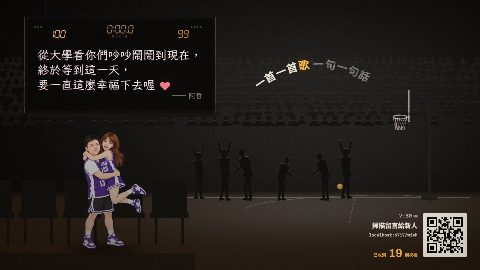
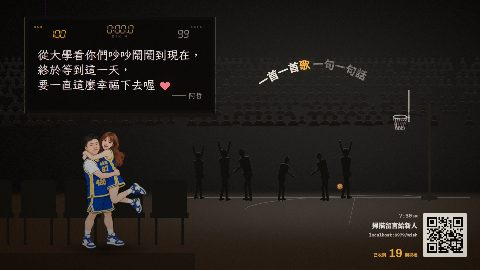
大螢幕：籃球衣改成勇士隊配色（寶藍＋金黃），背號宣文 420、孟庭 87；場館 LED、比分、彩帶跟著改隊色

diff --git a/frontend/src/wall/scenes/halftime.ts b/frontend/src/wall/scenes/halftime.ts
@@ -1,8 +1,8 @@
 // 中場投籃挑戰（暗、hoops）：中場休息，場館的燈打在罰球線上——宣文穿著 A&O 球衣上場挑戰「一拍投一球」，
-// 孟庭在場邊揮著兩支充氣加油棒。角色是 Codex 畫的紙偶（xw_hoops_shoot_1／2、mt_hoops_wave_1／2…，_puppet.ts、素材組 hoops）。
+// 孟庭在場邊揮著兩支充氣加油棒（隊色：一支寶藍、一支金黃；球衣寶藍配金黃，背號宣文 420、孟庭 87）。角色是 Codex 畫的紙偶（xw_hoops_shoot_1／2、mt_hoops_wave_1／2…，_puppet.ts、素材組 hoops）。
 //  - 投籃一定落在拍點：拍點前半拍拿球往下沉（shoot_1，身體往後帶）→ 拍點上出手（shoot_2，往前送）→ 球沿著拋物線飛、下一拍左右到籃框。
 //    大部分空心進（網子往下甩），每三球有一球打到籃框彈出去；窗格最後一個小節線是最後一球：一定空心進，
-//    宣文轉過來握拳大叫（cheer）、孟庭跳起來、觀眾剪影站起來、彩帶飄下來，支票上「碰」一聲蓋上「PAID ♥」的章。
+//    宣文轉過來握拳大叫（cheer）、孟庭跳起來、觀眾剪影站起來、隊色（寶藍、金黃、白）的彩帶飄下來，支票上「碰」一聲蓋上「PAID ♥」的章。
 //  - 旁邊的球架：一開始放滿，投一球少一顆。
 //  - **焦點是主打留言**：寫在左上方架子上那張大支票（獎品看板，紙的顏色、細框、「PAY TO THE ORDER OF 宣文 & 孟庭」）的附言欄，
 //    署名簽在右下的簽名線上；照「留言尺寸與版面比例標準 v2」：字 40～60、支票最大 800 × 370，寬高跟著留言。沒有留言時寫邀請。
@@ -19,7 +19,7 @@ import { lyricAt, beatAfter, msgChars, DATE_DOTS } from './_motifs';
 import { lyricOnPath, drawNote, arcAt, type Note } from './_couple';
 import { loadPuppets, drawPick, drawCycle, puppetPoint, puppetShadow, puppetIn, puppetLight, jumpArc, breathe, beatKick, hop, noteV2, tightenNote, type PuppetOpts } from './_puppet';
 import { lyricV2 } from './_v2';
-import { makeCrowd, CrowdLayer, crowdShade, lyricRows, basketball, drawHoop, streamers, ledBand, type Hoop, type Pt } from './_c8';
+import { makeCrowd, CrowdLayer, crowdShade, lyricRows, teamRgba, TEAM_TAG, basketball, drawHoop, streamers, ledBand, type Hoop, type Pt } from './_c8';
 
 export const spec: PlateSpecDecl = { group: 'couple', family: 'hoops', paper: false, energy: [0.45, 1], bars: [4, 8] };
 
@@ -90,7 +90,7 @@ export default class Halftime extends Scene {
   override async init() {
     const { audio: au } = this.ctx;
     const s = this.ctx.start, e = this.ctx.end;
-    await loadText('一位賓客新人留言PAY TO THE ORDER OF宣文 & 孟庭HALFTIME CHALLENGE中場投籃挑戰附言PAID ♥∞ 13 · 03' + INVITE + DATE_DOTS);
+    await loadText('一位賓客新人留言PAY TO THE ORDER OF宣文 & 孟庭HALFTIME CHALLENGE中場投籃挑戰附言PAID ♥∞ ' + `${TEAM_TAG.xw} · ${TEAM_TAG.mt}` + INVITE + DATE_DOTS);
     this.track(await loadPuppets(POSES));
     // 投籃表：第一拍起一拍一球（快歌兩拍一球）；最後一球放在窗格最後一個小節線（離結尾至少 1.3 秒）
     const step = au.beatPeriod(s) < 0.38 ? 2 : 1;
@@ -258,7 +258,7 @@ export default class Halftime extends Scene {
     this.drawLyric(c, t);
     this.drawBalls(c, t);
 
-    if (fin && t >= fin.arrive) streamers(c, fin.arrive + 0.05, t, { n: 50, x0: 500, x1: 1880, colors: [rgba('signal', 0.9), rgba('bone', 0.8), rgba('ember', 0.8)], floor: FLOOR + 30 });
+    if (fin && t >= fin.arrive) streamers(c, fin.arrive + 0.05, t, { n: 50, x0: 500, x1: 1880, colors: [teamRgba('blue', 0.95), teamRgba('gold', 0.85), teamRgba('white', 0.8)], floor: FLOOR + 30 });
 
     // ---- 看台的觀眾：畫在這一層所有東西後面（destination-over）；進球小小歡呼、最後一球整片站起來
     let cheer = 0;
@@ -398,15 +398,15 @@ export default class Halftime extends Scene {
   private drawLyric(c: CanvasRenderingContext2D, t: number) {
     const ly = lyricAt(this.ctx.lyrics, t);
     const rv = prog(t, this.ctx.start + 0.1, this.ctx.start + 0.6, ease.inOutCubic);
-    // 沒有歌詞（間奏、純音樂）：LED 板慢慢捲一排很淡的中場秀字樣，板子不會黑著
+    // 沒有歌詞（間奏、純音樂）：LED 板慢慢捲一排很淡的中場秀字樣與背號（隊色金黃），板子不會黑著
     const idle = 1 - (ly ? ly.k : 0);
     if (idle > 0.02) {
       c.save();
       c.beginPath(); c.rect(TABLE.x, TABLE.y, TABLE.w, TABLE.h); c.clip();
       c.font = font(F.mono(600), 26);
       c.letterSpacing = '10px';
-      c.fillStyle = rgba('signal', 0.28 * idle * rv);
-      const unit = 'HALFTIME · A&O ♥ 13 · 03   ';
+      c.fillStyle = teamRgba('gold', 0.3 * idle * rv);
+      const unit = `HALFTIME · ${TEAM_TAG.name} ♥ ${TEAM_TAG.xw} · ${TEAM_TAG.mt}   `;
       const uw = c.measureText(unit).width;
       for (let x = TABLE.x - ((t * 70) % uw); x < TABLE.x + TABLE.w; x += uw) c.fillText(unit, x, TABLE.base - 8);
       c.letterSpacing = '0px';

diff --git a/frontend/src/wall/scenes/courtside.ts b/frontend/src/wall/scenes/courtside.ts
@@ -1,4 +1,4 @@
-// 場邊看球（暗、hoops）：夜裡的室內球場，宣文和孟庭穿著自己設計的 A&O 情侶球衣（紫白、背號 13／03）坐在場邊第一排，
+// 場邊看球（暗、hoops）：夜裡的室內球場，宣文和孟庭穿著自己設計的 A&O 情侶球衣（寶藍配金黃、背號宣文 420／孟庭 87）坐在場邊第一排，
 // 孟庭抱著一桶爆米花。角色是 Codex 畫的紙偶（_puppet.ts、素材組 hoops）；球員、觀眾是程式畫的剪影（_c8.ts，不畫真實球隊與聯盟）。
 //  - 球場在右邊：六個剪影球員照拍子跑位（一拍兩步），持球的那個一拍運一下球（球在拍點落地）。
 //    每兩小節一次快攻：小節線上灌籃（跳到最高點剛好把球塞進籃框），網子往下甩；場館大螢幕上的比分 +2。
@@ -20,7 +20,7 @@ import { lyricAt, barAfter, beatAfter, msgChars } from './_motifs';
 import { lyricOnPath, drawNote, type Note } from './_couple';
 import { loadPuppets, drawPick, pick, puppetPoint, puppetShadow, puppetIn, puppetLight, jumpArc, breathe, beatKick, noteV2, tightenNote, type PuppetOpts } from './_puppet';
 import { lyricV2 } from './_v2';
-import { drawPlayer, playerPose, makeCrowd, CrowdLayer, basketball, drawHoop, popcorn, seats, sine01, crowdShade, lyricRows, jumbotronShell, ledBand, scanPattern, type Hoop, type Pt, type PlayerPose } from './_c8';
+import { drawPlayer, playerPose, makeCrowd, CrowdLayer, basketball, drawHoop, popcorn, seats, sine01, crowdShade, lyricRows, teamRgba, TEAM_TAG, jumbotronShell, ledBand, scanPattern, type Hoop, type Pt, type PlayerPose } from './_c8';
 
 export const spec: PlateSpecDecl = { group: 'couple', family: 'hoops', paper: false, energy: [0.45, 1], bars: [4, 8] };
 
@@ -352,9 +352,11 @@ export default class Courtside extends Scene {
     for (const S of this.scores) if (t >= S) pts += 2;
     c.font = font(F.mono(500), 20);
     c.letterSpacing = '3px';
-    c.fillStyle = rgba('ash', 0.7);
+    // 主隊（我們這隊）用隊色的金黃，客隊灰
+    c.fillStyle = teamRgba('gold', 0.8);
     c.textAlign = 'left';
-    c.fillText(`A&O ${pts}`, J.x + PAD.x, J.y + 31);
+    c.fillText(`${TEAM_TAG.name} ${pts}`, J.x + PAD.x, J.y + 31);
+    c.fillStyle = rgba('ash', 0.7);
     c.textAlign = 'right';
     c.fillText('97 GUEST', J.x + J.w - PAD.x, J.y + 31);
     c.textAlign = 'center';
@@ -376,18 +378,18 @@ export default class Courtside extends Scene {
     // 亮起來的那條掃描光
     if (on < 1) { c.fillStyle = rgba('bone', 0.5 * (1 - on)); c.fillRect(J.x, J.y + J.h * on - 2, J.w, 3); }
     c.restore();
-    // 螢幕底面的一圈 LED：平常一格一格跟著八分音符走；進球時整圈亮
+    // 螢幕底面的一圈 LED（隊色）：平常是暗暗的寶藍，一格金黃跟著八分音符走；我們進球時整圈亮成金黃
     const au = this.ctx.audio;
     const step = Math.floor(au.beatAt(t) * 2);
     const y = J.y + J.h + 20, n2 = Math.floor((J.w - 20) / 14);
     for (let k = 0; k < n2; k++) {
-      const lit = hit > 0.05 ? 0.4 + 0.5 * hit : (k + step) % 8 === 0 ? 0.55 : 0.08;
-      c.fillStyle = rgba('signal', lit);
+      const runner = (k + step) % 8 === 0;
+      c.fillStyle = hit > 0.05 ? teamRgba('gold', 0.4 + 0.45 * hit) : runner ? teamRgba('gold', 0.6) : teamRgba('blue', 0.55);
       c.fillRect(J.x + 10 + k * 14, y, 7, 3);
     }
   }
 
-  /** 環場 LED 帶上的歌詞（逐字跟唱）；沒有歌詞時慢慢捲一排很淡的 A&O ♥。 */
+  /** 環場 LED 帶上的歌詞（逐字跟唱）；沒有歌詞時慢慢捲一排很淡的隊名與背號（隊色金黃）。 */
   private drawRibbon(c: CanvasRenderingContext2D, t: number) {
     const R = RIBBON, s = this.ctx.start;
     const ly = lyricAt(this.ctx.lyrics, t);
@@ -405,8 +407,8 @@ export default class Courtside extends Scene {
       c.beginPath(); c.rect(R.x0, R.y0, R.x1 - R.x0, R.y1 - R.y0); c.clip();
       c.font = font(F.mono(600), 24);
       c.letterSpacing = '10px';
-      c.fillStyle = rgba('signal', 0.2 * idle * rv);
-      const unit = 'A&O ♥ 13 · 03   ';
+      c.fillStyle = teamRgba('gold', 0.24 * idle * rv);
+      const unit = `${TEAM_TAG.name} ♥ ${TEAM_TAG.xw} · ${TEAM_TAG.mt}   `;
       const uw = c.measureText(unit).width;
       const off = -((t * 60) % uw);
       for (let x = R.x0 + off; x < R.x1; x += uw) c.fillText(unit, x, R.base - 6);

diff --git a/frontend/src/wall/scenes/buzzer.ts b/frontend/src/wall/scenes/buzzer.ts
@@ -3,7 +3,7 @@
 //    計時器從 3.0 慢慢倒數，球員剪影在空中慢慢往下飄。每一拍像心跳一樣「咚」一下（鏡頭輕推、兩個人緊張地縮一下）。
 //  - 兩個人在左下角場邊站著（tense）：手十指緊扣、孟庭摀著嘴（兩眼睜大）、一起抬頭看球。
 //  - **小節線上球進**（計時器剛好歸零）：籃板的燈亮起來、記分板 A&O +3 反超，畫面閃一下、震一下；兩個人跳起來擁抱（hug），
-//    落地後在拍點上一跳一跳；看台的觀眾剪影站起來，彩帶從上面飄下來。
+//    落地後在拍點上一跳一跳；看台的觀眾剪影站起來，隊色（寶藍、金黃、白）的彩帶從上面飄下來。
 //  - **焦點是主打留言**：寫在左上角吊著的記分板上（七段顯示器的比分與計時器在上面一排，留言在下面的面板）；
 //    照「留言尺寸與版面比例標準 v2」：字 40～60、板子最大 740 × 360（右邊留給球飛的路），寬高跟著留言。沒有留言時寫邀請。
 //  - 歌詞沿著球飛的那道拋物線排（lyricOnPath，逐字跟唱），比留言小一級；球從字的下面飛過去。
@@ -18,7 +18,7 @@ import { lyricAt, barAfter, beatAfter, msgChars } from './_motifs';
 import { lyricOnPath, drawNote, arcAt, type Note } from './_couple';
 import { loadPuppets, drawPick, puppetShadow, puppetIn, puppetLight, jumpArc, breathe, beatKick, noteV2, tightenNote } from './_puppet';
 import { lyricV2 } from './_v2';
-import { drawPlayer, playerPose, makeCrowd, CrowdLayer, crowdShade, basketball, drawHoop, seats, seg7, streamers, type Hoop, type Pt, type PlayerPose } from './_c8';
+import { drawPlayer, playerPose, makeCrowd, CrowdLayer, crowdShade, basketball, drawHoop, seats, seg7, streamers, teamRgba, TEAM_TAG, type Hoop, type Pt, type PlayerPose } from './_c8';
 
 export const spec: PlateSpecDecl = { group: 'couple', family: 'hoops', paper: false, energy: [0.4, 1], bars: [4, 8] };
 
@@ -166,7 +166,9 @@ export default class Buzzer extends Scene {
     c.fillStyle = rgba('ash', 0.6);
     // 隊名：各自那一格的左上角（小），比分在格子正中間的下半（板子窄的時候也不會疊在一起）
     c.font = font(F.mono(500), 13);
-    c.fillText('A&O', B.x + 26, B.y + 32);
+    c.fillStyle = teamRgba('gold', 0.7);
+    c.fillText(TEAM_TAG.name, B.x + 26, B.y + 32);
+    c.fillStyle = rgba('ash', 0.6);
     c.textAlign = 'right';
     c.fillText('GUEST', B.x + B.w - 26, B.y + 32);
     c.textAlign = 'center';
@@ -242,7 +244,7 @@ export default class Buzzer extends Scene {
 
     // ---- 彩帶（進球後從上面飄下來）
     // 彩帶只在記分板右邊飄（不蓋到留言）
-    if (t >= T) streamers(c, T + 0.05, t, { n: 40, x0: this.board.x + this.board.w + 60, x1: 1880, colors: [rgba('signal', 0.9), rgba('bone', 0.8), rgba('ember', 0.8)], floor: FLOOR + 40 });
+    if (t >= T) streamers(c, T + 0.05, t, { n: 40, x0: this.board.x + this.board.w + 60, x1: 1880, colors: [teamRgba('blue', 0.95), teamRgba('gold', 0.85), teamRgba('white', 0.8)], floor: FLOOR + 40 });
 
     // ---- 看台的觀眾：畫在這一層所有東西後面（destination-over）；慢動作時幾乎不動，進球時整片站起來
     const cheer = prog(t, T, T + 0.15) * (1 - prog(t, T + bp * 6, T + bp * 9)) * 0.9;
@@ -334,8 +336,9 @@ export default class Buzzer extends Scene {
     const clock = t < R ? 3 : t < T ? 3 * (1 - (t - R) / (T - R)) : 0;
     const off = rgba('bone', 0.04);
     const home = t >= T ? 100 : 97;
-    seg7(c, String(home), B.x + 7 + B.w * 0.15, B.y + ROW - 13, 30, rgba(t >= T ? 'ember' : 'signal', 0.95), off, 'center');
-    seg7(c, '99', B.x + B.w * 0.85 - 7, B.y + ROW - 13, 30, rgba('signal', 0.8), off, 'center');
+    // 主隊（我們這隊）的比分用隊色金黃，反超那一下亮一點；客隊用灰白
+    seg7(c, String(home), B.x + 7 + B.w * 0.15, B.y + ROW - 13, 30, teamRgba('gold', t >= T ? 0.88 : 0.75), off, 'center');
+    seg7(c, '99', B.x + B.w * 0.85 - 7, B.y + ROW - 13, 30, rgba('bone', 0.6), off, 'center');
     const tenths = Math.ceil(clock * 10 - 1e-6) / 10;
     seg7(c, `0:0${tenths.toFixed(1)}`, B.x + B.w / 2, B.y + ROW - 32, 30, rgba(t >= T ? 'ember' : 'signal', t >= T ? 0.6 + 0.4 * (Math.floor(t * 4) % 2) : 0.95), off, 'center');
     if (n) {

diff --git a/frontend/src/wall/scenes/basketball.ts b/frontend/src/wall/scenes/basketball.ts
@@ -1,4 +1,4 @@
-// 街頭鬥牛（亮、hoops）：午後的公園籃球場，宣文和孟庭穿著 A&O 情侶球衣一對一；芃芃和 QQ 在場邊當裁判，元元當撿球的。
+// 街頭鬥牛（亮、hoops）：午後的公園籃球場，宣文和孟庭穿著 A&O 情侶球衣（寶藍配金黃，背號 420／87）一對一；芃芃和 QQ 在場邊當裁判，元元當撿球的。
 // 角色是 Codex 畫的紙偶（_puppet.ts、素材組 hoops；狗坐著的樣子借 base 的 pp_sit／qq_sit，元元用 yuanyuan 組的現成姿勢）。
 //  - 宣文運球：一拍拍一下（球在拍點落地、半拍回到手上），左右晃（每兩拍換一邊）；孟庭壓低身體跟著他左右移動防守。
 //  - 每兩小節一次（快歌三小節），小節線上宣文跳投（最高點出手）：
@@ -24,7 +24,7 @@ import { lyricAt, barAfter, beatAfter, msgChars } from './_motifs';
 import { inkFor, paperBG, inkLine, hatch, lyricOnPath, drawNote, arcAt, type Note } from './_couple';
 import { loadPuppets, drawPuppet, drawPick, drawCycle, puppetPoint, puppetShadow, puppetIn, jumpArc, breathe, beatKick, landSquash, hop, noteV2, tightenNote, type PuppetOpts } from './_puppet';
 import { lyricV2 } from './_v2';
-import { basketball, drawHoop, lyricRows, type Hoop, type Pt } from './_c8';
+import { basketball, drawHoop, lyricRows, teamRgba, TEAM_TAG, type Hoop, type Pt } from './_c8';
 
 export const spec: PlateSpecDecl = { group: 'couple', family: 'hoops', paper: true, energy: [0.4, 1], bars: [4, 8] };
 
@@ -182,10 +182,10 @@ export default class Basketball extends Scene {
       c.fillRect(x, P.y + P.h - 2, 4, len);
       c.beginPath(); c.arc(x + 2, P.y + P.h + len, 3, 0, Math.PI * 2); c.fill();
     }
-    // 底漆角落的小塗鴉簽名（訊號色，小）
+    // 底漆角落的小塗鴉簽名（隊色寶藍，小）
     c.font = font(F.archivo(110, 800), 18);
-    c.fillStyle = rgba('signal', 0.8);
-    c.fillText('A&O ♥', P.x + PAD.x, P.y + 38);
+    c.fillStyle = teamRgba('blue', 0.85);
+    c.fillText(`${TEAM_TAG.name} ♥`, P.x + PAD.x, P.y + 38);
     // 柏油球場：遠的邊（接牆）到畫面下緣，比紙深一點
     c.fillStyle = mixRgba('paper', 'sepia', 0.13);
     c.fillRect(0, WALL.bottom, W, H - WALL.bottom);
@@ -312,7 +312,7 @@ export default class Basketball extends Scene {
     const ent = puppetIn(t, this.ctx.start + 0.15, 0.45);
     if (ent.alpha <= 0) return;
     const p = this.playAt(t);
-    // 孟庭面向左（防守宣文）：用 Codex 另外畫的朝左版本（_left），不左右翻轉——翻過去球衣上的 A&O、03 會變成反的字
+    // 孟庭面向左（防守宣文）：用 Codex 另外畫的朝左版本（_left），不左右翻轉——翻過去球衣上的 A&O、87 會變成反的字
     const base: PuppetOpts = { h: SZ, spin: ent.spin, alpha: ent.alpha, pivot: 0.4 };
     const shadow = (x: number, lift: number) => puppetShadow(c, 'mt', x, GROUND, { h: SZ, lift, alpha: 0.3 * ent.alpha, color: '70,45,25', wide: 1.3 });
     if (!p) {

diff --git a/frontend/src/wall/scenes/_c8.ts b/frontend/src/wall/scenes/_c8.ts
@@ -11,6 +11,21 @@ import { font } from '../engine/type';
 type Ctx = CanvasRenderingContext2D;
 export type Pt = { x: number; y: number };
 
+// ---------------------------------------------------------------- 我們這隊（A&O）
+/**
+ * 兩人的情侶球衣（2026-09-30 新人改的）：寶藍為主、金黃為輔（滾邊、字、號碼），白色點綴；背號宣文 420、孟庭 87，胸前「A&O」。
+ * 只借配色，不畫任何真實球隊、聯盟的隊名與標誌。跟紙偶的球衣一樣是固定色（跟 fur、ball 一樣不隨每首歌的主題換），
+ * 版面裡代表「我們這隊」的東西（記分板主隊、LED 字、彩帶、塗鴉簽名）一律從這裡拿，不要在版面裡另外寫 hex。
+ */
+export const TEAM = { blue: '#1D428A', gold: '#FFC72C', white: '#F2EBDF' } as const;
+/** 背號與隊名（LED、跑馬燈用）。 */
+export const TEAM_TAG = { name: 'A&O', xw: '420', mt: '87' } as const;
+/**
+ * 我們這隊的顏色（Canvas2D）。金黃 R 通道接近 1：暗版面上整片不透明的金會超過發光門檻（只有訊號色可以發光），
+ * 所以 alpha 最多 0.88。
+ */
+export const teamRgba = (k: keyof typeof TEAM, a = 1) => rgba(TEAM[k], k === 'gold' ? Math.min(a, 0.88) : a);
+
 // ---------------------------------------------------------------- 球員剪影
 export type PlayerPose = 'run' | 'dribble' | 'jump' | 'defend' | 'stand' | 'cheer';
 export interface PlayerOpts {

diff --git a/frontend/src/wall/scenes/kisscam.ts b/frontend/src/wall/scenes/kisscam.ts
@@ -1,5 +1,5 @@
 // 親親鏡頭（暗、hoops）：比賽暫停，場館的燈暗下來，大螢幕上跳出「KISS CAM」——鏡頭在觀眾席裡找來找去，
-// 小節線上框到穿著 A&O 情侶球衣的宣文和孟庭。角色是 Codex 畫的雙人紙偶（cp_hoops_kiss_1～3，_puppet.ts、素材組 hoops）。
+// 小節線上框到穿著 A&O 情侶球衣（寶藍配金黃，背號 420／87）的宣文和孟庭。角色是 Codex 畫的雙人紙偶（cp_hoops_kiss_1～3，_puppet.ts、素材組 hoops）。
 //  - 同一組紙偶畫兩次：左邊大螢幕裡的「轉播畫面」（大、只拍到上半身，攝影師跟著動作推近拉遠），和右邊看台上真的兩個人（小、被追光打亮）。
 //  - 時間軸（每個動作落在小節線，窗格短就兩拍一個）：開場大螢幕在觀眾席裡找（剪影一排排滑過去，一顆虛線愛心框晃來晃去）、
 //    右邊的追光在看台上掃 → 小節線：畫面切到兩個人、愛心框「碰」一下縮進來、追光停在他們身上，兩人發現自己上了大螢幕（kiss_1）→
